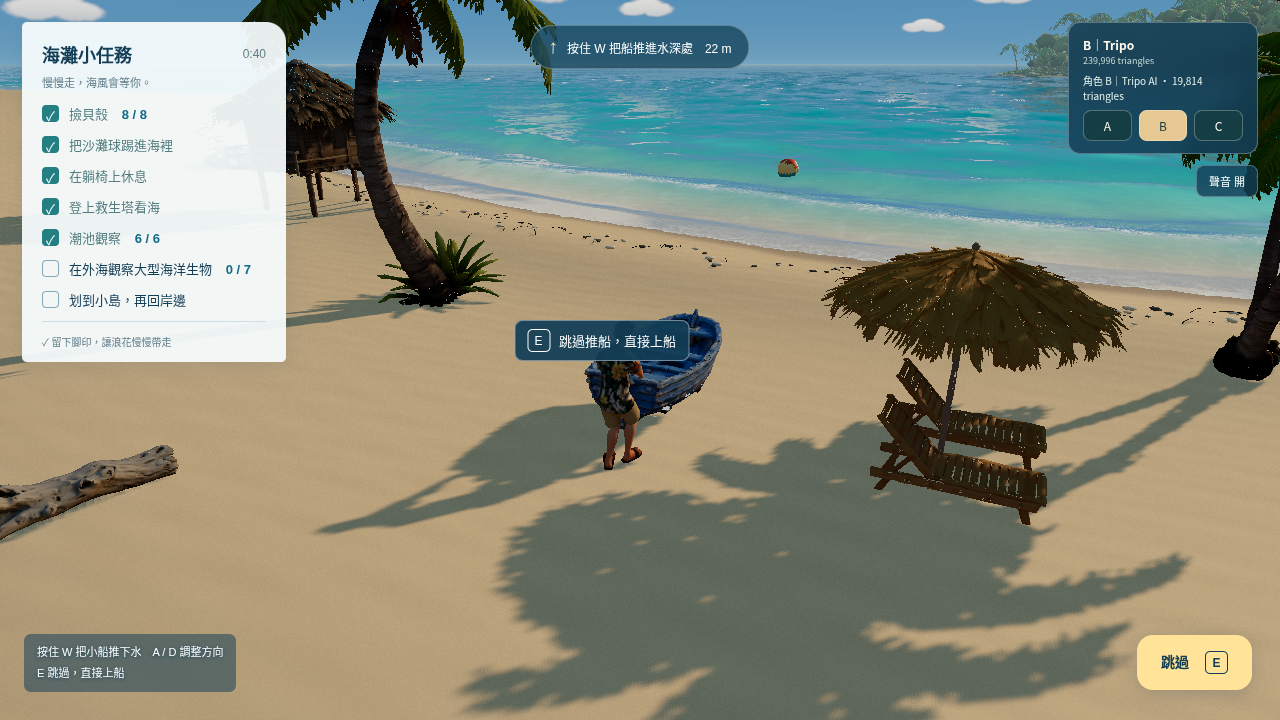
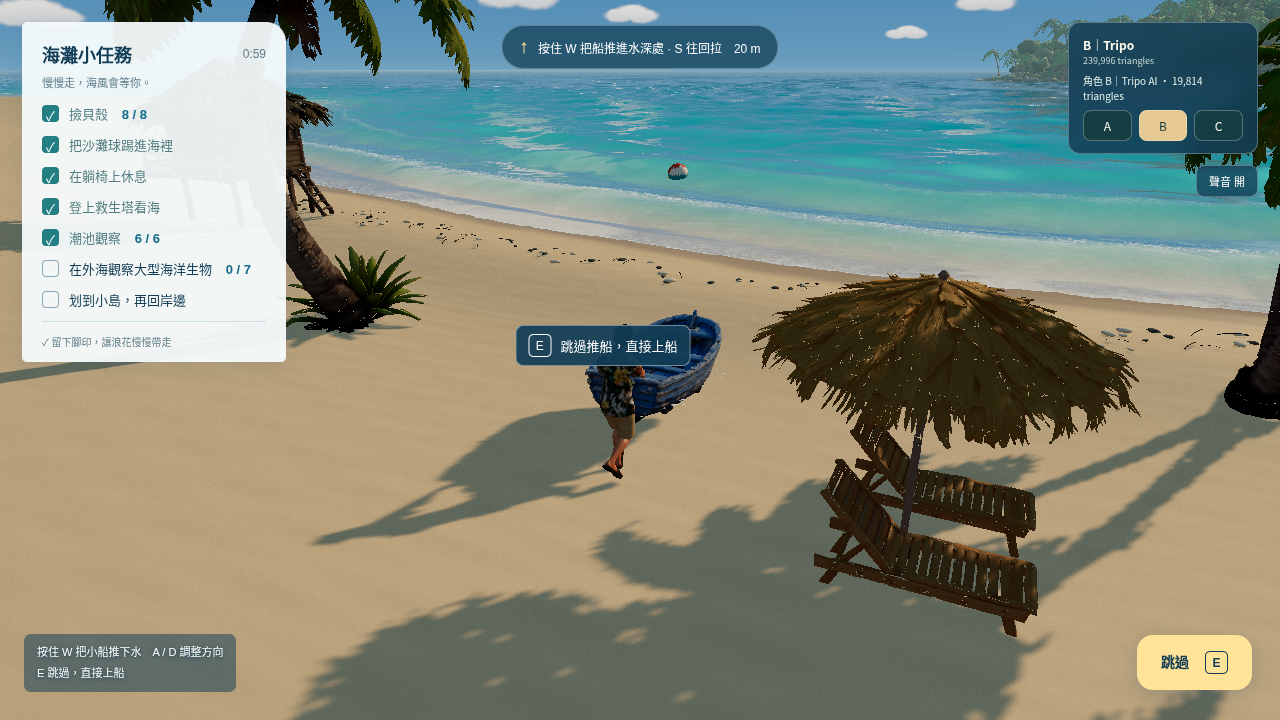
可沿沙灘走到岬角林緣近看（島坡、椰子樹幹、岩塊擋人，鏡頭碰撞含島坡）；推船按 S 倒退往回拉、A/D 轉向，撞到躺椅不再卡死；岩塊與植物不再長在島外框外或被沙蓋住的地方（修掉埋在沙下擋路、浮在外海的石頭）；verify-game 加往回拉與走到岬角檢查
Claude-Session: https://claude.ai/code/session_01USRpqyJ3nNu4mbR3gC6di4

diff --git a/src/game/index.js b/src/game/index.js
@@ -470,11 +470,13 @@ export async function createGame({scene,camera,renderer,water,config,explore:e,a
  // (A / D bend the course); it slides on the sand, then floats where the water is deeper than its draft. Once the
  // water under its middle is deep enough to row (the boat's own limit), the rower climbs in over the stern.
  function launchUpdate(dt,t){
-  e.input(input);const driving=running&&e.active&&!e.busy,f=driving?Math.max(0,input.forward):0,s=driving?input.side:0,hh=boat.hull??{x:0,z:0,len:3,beam:1.2};
+  e.input(input);const driving=running&&e.active&&!e.busy,f=driving?input.forward:0,s=driving?input.side:0,hh=boat.hull??{x:0,z:0,len:3,beam:1.2};
   const local=(lx,lz,out)=>{const c=Math.cos(boatYaw),sn=Math.sin(boatYaw);return out.set(vessel.position.x+c*(lx+hh.x)+sn*(lz+hh.z),0,vessel.position.z-sn*(lx+hh.x)+c*(lz+hh.z));};
   if(launch.board<0){
    const mid=local(0,0,blade),wading=groundHeight(mid.x,mid.z)<0;
-   launch.speed=T.MathUtils.damp(launch.speed,f*(wading?1.4:2.1),3,dt);launch.steer=T.MathUtils.clamp(launch.steer-s*dt*.5,-.5,.5);
+   // S pulls it back (slower, walking backwards), so a hull run into a lounger or the umbrella can be backed off;
+   // A / D then swing its bow while it comes back.
+   launch.speed=T.MathUtils.damp(launch.speed,f>0?f*(wading?1.4:2.1):f*.9,3,dt);if(f>=0)launch.steer=T.MathUtils.clamp(launch.steer-s*dt*.5,-.5,.5);
    const step=launch.speed*dt,aim=Math.atan2(-(launch.to.x-vessel.position.x),-(launch.to.z-vessel.position.z))+launch.steer,err=Math.atan2(Math.sin(aim-boatYaw),Math.cos(aim-boatYaw));
    // The hull's corners must stay clear of the other props.
    const clear=(x,z,yaw)=>{if(x<-48||x>145)return false;const c=Math.cos(yaw),sn=Math.sin(yaw);
@@ -483,7 +485,8 @@ export async function createGame({scene,camera,renderer,water,config,explore:e,a
    // Facing well away from the sea (a boat beached bow up the sand), it is first swung round on the spot, its middle
    // staying put; then pushed ahead, easing onto the course. A blocked course bends a little either way.
    const moves=[];
-   if(Math.abs(err)>.5){const yaw=boatYaw+Math.sign(err)*Math.min(Math.abs(err),step*.6),mid=local(0,0,blade),c=Math.cos(yaw),sn=Math.sin(yaw);moves.push([mid.x-(c*hh.x+sn*hh.z),mid.z-(-sn*hh.x+c*hh.z),yaw]);}
+   if(step<0){const yaw=boatYaw-s*step*.5;moves.push([vessel.position.x-Math.sin(boatYaw)*step,vessel.position.z-Math.cos(boatYaw)*step,yaw],[vessel.position.x-Math.sin(boatYaw)*step,vessel.position.z-Math.cos(boatYaw)*step,boatYaw]);}
+   else if(Math.abs(err)>.5){const yaw=boatYaw+Math.sign(err)*Math.min(Math.abs(err),step*.6),mid=local(0,0,blade),c=Math.cos(yaw),sn=Math.sin(yaw);moves.push([mid.x-(c*hh.x+sn*hh.z),mid.z-(-sn*hh.x+c*hh.z),yaw]);}
    else for(const bend of [0,.03,-.03,.06,-.06]){const yaw=boatYaw+err*Math.min(1,step*.45)+bend;moves.push([vessel.position.x-Math.sin(yaw)*step,vessel.position.z-Math.cos(yaw)*step,yaw]);}
    let moved=!step;
    for(const [x,z,yaw] of step?moves:[])if(clear(x,z,yaw)){vessel.position.x=x;vessel.position.z=z;boatYaw=yaw;moved=true;break;}
@@ -628,7 +631,7 @@ export async function createGame({scene,camera,renderer,water,config,explore:e,a
   destination.visible=mode==='boat';buoy.visible=mode==='boat';const dest=state.island&&state.opensea?dock:island;destination.position.set(dest.x,.6,dest.z);sampleWater(dest.x,dest.z,t,wave);destination.position.y=wave.height+.14;buoy.position.set(dest.x,wave.height+1.4,dest.z);
   near=active?nearTarget():null;const prompt=$('#target-prompt'),button=$('#interact');button.disabled=!near;button.firstChild.textContent=mode==='boat'?(near?.kind==='opensea'?'觀察 ':near?.kind==='skip'?'跳過 ':near?'下船 ':'划行中 '):mode==='tower'?'下塔 ':mode==='rest'?'起身 ':'互動 ';objects.halo.visible=!!near&&mode==='walk';prompt.hidden=!near;
   if(near){const p=near.position;screen.set(p.x,p.y??p.height??groundHeight(p.x,p.z),p.z);if(near.kind==='shell')screen.y=near.item.y;if(near.kind==='shell'&&screen.y<.04){sampleWater(screen.x,screen.z,t,wave);screen.y=Math.max(screen.y,wave.height);}objects.halo.position.set(screen.x,screen.y+.025,screen.z);screen.y+=1.2;screen.project(camera);const onScreen=screen.z<1&&screen.z>-1&&Math.abs(screen.x)<.95&&Math.abs(screen.y)<.95;prompt.hidden=!onScreen;prompt.style.left=`${(screen.x*.5+.5)*innerWidth}px`;prompt.style.top=`${(-screen.y*.5+.5)*innerHeight}px`;prompt.querySelector('span').textContent=near.label;}
-  let goal=null,label='';if(mode==='boat'&&launch.active){goal=launch.to;label='按住 W 把船推進水深處';}else if(mode==='boat'){goal=dest;label=state.island&&state.opensea?'岸邊圓環 · E 下船':'外海浮標 · 浮出水面時按 E 觀察';}else if(state.shells<8){let d=Infinity;for(const item of objects.items){const n=Math.hypot(item.x-e.player.x,item.z-e.player.z);if(!item.collected&&n<d){d=n;goal=item;}}label='下一枚貝殼';}else if(!state.ball){goal=objects.ball.position;label='沙灘球';}else if(!state.lounger){goal=anchors.umbrella.point;label='躺椅';}else if(!state.tower){goal=anchors.lifeguard.point;label='救生塔';}else if(!state.tidepool){goal=pool.point;label='潮池';}else if((!state.opensea||!state.boat)){goal=anchors.boat.point;label='岸上的小船';}
+  let goal=null,label='';if(mode==='boat'&&launch.active){goal=launch.to;label='按住 W 把船推進水深處 · S 往回拉';}else if(mode==='boat'){goal=dest;label=state.island&&state.opensea?'岸邊圓環 · E 下船':'外海浮標 · 浮出水面時按 E 觀察';}else if(state.shells<8){let d=Infinity;for(const item of objects.items){const n=Math.hypot(item.x-e.player.x,item.z-e.player.z);if(!item.collected&&n<d){d=n;goal=item;}}label='下一枚貝殼';}else if(!state.ball){goal=objects.ball.position;label='沙灘球';}else if(!state.lounger){goal=anchors.umbrella.point;label='躺椅';}else if(!state.tower){goal=anchors.lifeguard.point;label='救生塔';}else if(!state.tidepool){goal=pool.point;label='潮池';}else if((!state.opensea||!state.boat)){goal=anchors.boat.point;label='岸上的小船';}
   if(goal){const dx=goal.x-e.player.x,dz=goal.z-e.player.z;$('#nav-text').textContent=`${label}　${Math.round(Math.hypot(dx,dz))} m`;e.input(input);$('#nav-arrow').style.transform=`rotate(${Math.atan2(dx,-dz)+(mode==='boat'?boatYaw:input.yaw)}rad)`;}$('#navigation').hidden=!goal||!active||mode==='rest'||mode==='tower'||mode==='tidepool';
   $('#game-audio').textContent=e.muted?'聲音 關':'聲音 開';$('#game-audio').setAttribute('aria-pressed',String(e.muted));$('#game-toast').classList.toggle('visible',active&&t<toastUntil);$('#game-fade').style.opacity=String(Math.max(0,1-(t-fadeAt)/.65)*.65);renderHud();
   if(active&&mode==='walk'&&state.shells===8&&state.ball&&state.lounger&&state.tower&&state.tidepool&&state.opensea&&state.boat)complete();

diff --git a/src/vegetation.js b/src/vegetation.js
@@ -1,5 +1,6 @@
 import * as THREE from 'three';
 import { mergeGeometries, mergeVertices } from 'three/addons/utils/BufferGeometryUtils.js';
+import { groundHeight } from './terrain.js';
 
 // Tropical island vegetation for the shared landforms (src/coast.js): broadleaf trees, coconut palms and shrubs.
 // Every shape and placement comes from fixed seeds, so the scene is the same on every load and in every group.
@@ -128,14 +129,16 @@ function foliageMaterial(){
 
 // Plant islands into shared instanced meshes: plant() once per island, then finish().
 export function createVegetation(group){
- const lists={crownNear:[],crownFar:[],shrub:[],palm:[],trunk:[],boulder:[],plant:[]};
+ const lists={crownNear:[],crownFar:[],shrub:[],palm:[],trunk:[],boulder:[],plant:[]},obstacles=[];
  // shape(x,z): the island's height at local (x, z); rock(x,z,y): bare rock there; detail 'near' or 'far'.
  function plant({cx,cz,rx,rz,shape,rock,seed,detail,counts}){
   const r=rng(seed),o=new THREE.Object3D(),color=new THREE.Color();
   const slope=(x,z)=>Math.hypot(shape(x+1,z)-shape(x-1,z),shape(x,z+1)-shape(x,z-1))/2;
   // The yaw that turns local +x downhill (rotateY(a) sends +x to (cos a, 0, -sin a)).
   const downhill=(x,z)=>Math.atan2(shape(x,z+1)-shape(x,z-1),-(shape(x+1,z)-shape(x-1,z)));
-  const pick=test=>{for(let i=0;i<60;i++){const x=(r()-.5)*rx*1.9,z=(r()-.5)*rz*1.9,y=shape(x,z);if(test(x,z,y))return [x,z,y];}return null;};
+  // Where the island meets the main beach its edge runs under the sand: nothing grows there (it would be buried, and
+  // a buried boulder or trunk would still block walkers).
+  const pick=test=>{for(let i=0;i<60;i++){const x=(r()-.5)*rx*1.9,z=(r()-.5)*rz*1.9,y=shape(x,z);if(test(x,z,y)&&y>groundHeight(cx+x,cz+z)-.2)return [x,z,y];}return null;};
   const put=(list,place)=>{place(o,color);o.updateMatrix();list.push([o.matrix.clone(),color.clone()]);};
   // Broadleaf trees: many small crowns packed into a canopy from just above the rock band to the summit (from afar a
   // fine texture, not separate blobs); a few emergent trees break the skyline. Sunlit yellow-green to olive.
@@ -149,12 +152,13 @@ export function createVegetation(group){
   // Coconut palms: many along the shore, leaning downhill towards the water, and scattered up the slopes standing
   // out of the canopy.
   for(let i=0;i<counts.palm;i++){const p=pick((x,z,y)=>{const e=(x/rx)**2+(z/rz)**2;return i%3===0?y>4&&slope(x,z)<1.3:y>.6&&y<8&&e>.5&&slope(x,z)<1.4;});if(!p)continue;const [x,z,y]=p,shore=i%3!==0;
-   put(lists.palm,(o,c)=>{const h=shore?7+r()*5:12+r()*6;o.position.set(cx+x,y-.3,cz+z);o.scale.setScalar(h);
+   obstacles.push([cx+x,cz+z,.3]);put(lists.palm,(o,c)=>{const h=shore?7+r()*5:12+r()*6;o.position.set(cx+x,y-.3,cz+z);o.scale.setScalar(h);
     // The trunk bends towards local +x: turn that downhill, then lean a little more that way (more on the shore).
     o.rotation.set(0,0,0);o.rotateY(downhill(x,z)+(r()-.5)*.6);o.rotateZ(-(shore?.08+r()*.22:r()*.08));const k=.95+r()*.3;c.setRGB(k,k,k*.92);});}
-  // Boulders scattered along the water line, some half in the water: weed round the foot, some green all over.
-  for(let i=0;i<(counts.boulder||0);i++){const p=pick((x,z,y)=>y>-.6&&y<1.6);if(!p)continue;const [x,z,y]=p;
-   put(lists.boulder,(o,c)=>{const s=.5+r()**2*2.2;o.position.set(cx+x,y-s*.15,cz+z);o.scale.set(s*(1+r()*.5),s*(.6+r()*.5),s*(1+r()*.4));o.rotation.set((r()-.5)*.3,r()*6.3,(r()-.5)*.3);const k=.8+r()*.4;if(r()<.25)c.setRGB(k*.85,k*1.02,k*.75);else c.setRGB(k,k,k);});}
+  // Boulders scattered along the water line (inside the island's outline: outside it the height is flat, buried
+  // under the beach or out at sea), some half in the water: weed round the foot, some green all over.
+  for(let i=0;i<(counts.boulder||0);i++){const p=pick((x,z,y)=>y>-.6&&y<1.6&&(x/rx)**2+(z/rz)**2<.99);if(!p)continue;const [x,z,y]=p;
+   put(lists.boulder,(o,c)=>{const s=.5+r()**2*2.2,sx=s*(1+r()*.5),sy=s*(.6+r()*.5),sz=s*(1+r()*.4);obstacles.push([cx+x,cz+z,Math.max(sx,sz)*.9]);o.position.set(cx+x,y-s*.15,cz+z);o.scale.set(sx,sy,sz);o.rotation.set((r()-.5)*.3,r()*6.3,(r()-.5)*.3);const k=.8+r()*.4;if(r()<.25)c.setRGB(k*.85,k*1.02,k*.75);else c.setRGB(k,k,k);});}
   // Leafy ground plants: a thick fringe along the forest edge spilling onto the sand, and some in the gaps under
   // the canopy and between the rocks.
   for(let i=0;i<(counts.plant||0);i++){const p=pick((x,z,y)=>i%4===0?y>2&&y<12&&slope(x,z)<1.5:y>.15&&y<3.2&&slope(x,z)<1.6);if(!p)continue;const [x,z,y]=p;
@@ -169,5 +173,6 @@ export function createVegetation(group){
    for(const m of meshes){m.instanceMatrix.needsUpdate=true;if(m.instanceColor)m.instanceColor.needsUpdate=true;m.computeBoundingSphere();}}
   return Object.fromEntries(Object.entries(lists).map(([k,v])=>[k,v.length]));
  }
- return {plant,finish};
+ // Palm trunks and boulders as circles [x, z, radius], for walkers along the shore (src/coast.js landHeight()).
+ return {plant,finish,obstacles};
 }

diff --git a/src/explore.js b/src/explore.js
@@ -1,5 +1,6 @@
 import * as T from 'three';
 import { groundHeight } from './terrain.js';
+import { landHeight, shoreClear } from './coast.js';
 import { loadProps, propRoot } from './props.js';
 import './explore.css';
 
@@ -91,7 +92,7 @@ export function createExplore({ scene, camera, renderer, config, results, group,
   drag($('#stick'),(x,y)=>{joyX=T.MathUtils.clamp(x/45,-1,1);joyY=T.MathUtils.clamp(y/45,-1,1);$('#stick i').style.transform=`translate(${joyX*30}px,${joyY*30}px)`;},()=>{joyX=joyY=0;$('#stick i').style.transform='';});
   let lastX=0,lastY=0;drag($('#look'),(x,y)=>{look(x-lastX,y-lastY);lastX=x;lastY=y;},()=>{lastX=lastY=0;});
   // Free space, or a move that gets out of a prop the player is already inside (e.g. after a teleport).
-  function allowed(x,z){if(x< -34||x>35||z>27||groundHeight(x,z)<-.65)return false;const next=clearance(x,z);return next>=RADIUS||next>clearance(player.x,player.z);}
+  function allowed(x,z){if(x< -34||x>100||z>27||groundHeight(x,z)<-.65||x>35&&!shoreClear(x,z,RADIUS))return false;const next=clearance(x,z);return next>=RADIUS||next>clearance(player.x,player.z);}
   function cameraBlocked(p){for(const c of colliders){const b=c.box;if(p.x>b.min.x-.2&&p.x<b.max.x+.2&&p.y>b.min.y-.2&&p.y<b.max.y+.2&&p.z>b.min.z-.2&&p.z<b.max.z+.2)return true;}return false;}
   function update(dt){dt=Math.min(dt,.05);let dx=0,dz=0;
     if(active&&!photo&&!busy&&!driven){const forward=hold?0:Number(keys.has('KeyW')||keys.has('ArrowUp'))-Number(keys.has('KeyS')||keys.has('ArrowDown'))-joyY,side=hold?0:Number(keys.has('KeyD'))-Number(keys.has('KeyA'))+joyX;yaw+=(Number(keys.has('ArrowLeft'))-Number(keys.has('ArrowRight')))*2.2*dt;const amount=Math.hypot(forward,side),norm=Math.max(1,amount),wet=groundHeight(player.x,player.z)<.02,target=amount>.01?(keys.has('ShiftLeft')||keys.has('ShiftRight')?4.5:1.8)*(wet?.42:1)*Math.min(1,amount):0;
@@ -114,9 +115,9 @@ export function createExplore({ scene, camera, renderer, config, results, group,
     movementSpeed=dt>0?Math.hypot(dx,dz)/dt:movementSpeed;
     if(!driven)avatar.position.copy(player);avatar.position.y+=Math.hypot(dx,dz)>.001?Math.abs(Math.sin(phase))*.045:0;avatar.visible=gameMode||!first;
     if(!photo&&!driven){target.copy(player);target.y+=1.45;desiredCamera.copy(target);if(first){desiredCamera.x-=Math.sin(yaw)*.05;desiredCamera.z-=Math.cos(yaw)*.05;camera.position.copy(desiredCamera);target.x-=Math.sin(yaw)*10;target.z-=Math.cos(yaw)*10;target.y-=Math.sin(pitch)*10;}else{desiredCamera.x+=Math.sin(yaw)*6.2*Math.cos(pitch);desiredCamera.z+=Math.cos(yaw)*6.2*Math.cos(pitch);desiredCamera.y+=.45+Math.sin(pitch)*6.2;
-      for(let i=1;!gameCamera&&i<=24;i++){probe.lerpVectors(target,desiredCamera,i/24);if(probe.y<groundHeight(probe.x,probe.z)+.35||cameraBlocked(probe)){desiredCamera.lerpVectors(target,desiredCamera,(i-1)/24);break;}}
+      for(let i=1;!gameCamera&&i<=24;i++){probe.lerpVectors(target,desiredCamera,i/24);if(probe.y<landHeight(probe.x,probe.z)+.35||cameraBlocked(probe)){desiredCamera.lerpVectors(target,desiredCamera,(i-1)/24);break;}}
       if(!gameCamera)camera.position.lerp(desiredCamera,1-Math.exp(-10*dt));}
-      camera.position.y=Math.max(camera.position.y,groundHeight(camera.position.x,camera.position.z)+.3);camera.lookAt(target);if(gameCamera&&!first)gameCamera.update(dt,player,yaw,pitch);
+      camera.position.y=Math.max(camera.position.y,landHeight(camera.position.x,camera.position.z)+.3);camera.lookAt(target);if(gameCamera&&!first)gameCamera.update(dt,player,yaw,pitch);
       let nearest=null,best=4;for(const c of colliders){const d=Math.hypot(Math.max(c.box.min.x-player.x,0,player.x-c.box.max.x),Math.max(c.box.min.z-player.z,0,player.z-c.box.max.z));if(d<best){best=d;nearest=c;}}
       if(nearest!==lastPoi||group!==lastPoiGroup){lastPoi=nearest;lastPoiGroup=group;poi.textContent=nearest?`${nearest.id} · ${labels[group]}${group==='A'?' · code-generated':` · ${nearest.slot.paths[group].split('/').at(-1)}`}`:'';poi.hidden=!nearest;}
       for(const r of rings){if(r.age<1){r.age+=dt;r.mesh.scale.setScalar(1+r.age*3);r.mesh.material.opacity=(1-r.age)*.45;}else r.mesh.visible=false;}

diff --git a/src/game/character.js b/src/game/character.js
@@ -251,6 +251,8 @@ export async function createCharacter(group='A'){
   // While moving, locomotion wins: a pickup only layers its arm reach on top, a kick is skipped.
   // Speed eases between walk and run (the body itself speeds up and slows down over a few strides, src/explore.js);
   // from 2.9 to 4.3 m/s both cycles play, weighted, on one shared stride phase.
+  // A negative speed walks backwards (pulling the boat back): the same gait, its phase running the other way.
+  const back=speed<0?-1:1;speed=Math.abs(speed);
   pace=dt?T.MathUtils.damp(pace,speed,10,dt):speed;const blendRun=T.MathUtils.smoothstep(pace,2.9,4.3);
   const gait=speed>.12?(blendRun>.5?'run':'walk'):'idle',layered=gait!=='idle'&&oneShot==='interact'&&!animation;
   const selected=animation??(pose==='climb'?'climb':pose==='paddle'?'paddle':pose==='lie'?'lie':pose==='sit'||pose==='sand'?'sit':airborne?'jump':gait!=='idle'?gait:oneShot||gait);
@@ -265,10 +267,10 @@ export async function createCharacter(group='A'){
    const frac=x=>(x%1+1)%1,lead=n=>frac((contact[n]?.[0]?.[0]??0)*cycles[n]),stride=n=>nativeSpeed[n]*actions.get(n).getClip().duration/cycles[n];
    const cycle=T.MathUtils.lerp(stride('walk'),stride('run'),blendRun);
    if(!locoSync){const n=active==='run'?'run':'walk',a=actions.get(n);locoPhase=frac(a.time/a.getClip().duration*cycles[n]-lead(n));}
-   locoSync=true;locoPhase=frac(locoPhase+dt*Math.min(speed,cycle*3)/cycle);
+   locoSync=true;locoPhase=frac(locoPhase+back*dt*Math.min(speed,cycle*3)/cycle);
    for(const [a,w,n] of [[walkA,1-blendRun,'walk'],[runA,blendRun,'run']]){a.enabled=true;if(!a.isRunning())a.play();a.setEffectiveTimeScale(0).setEffectiveWeight(w);a.time=frac(locoPhase+lead(n))/cycles[n]*a.getClip().duration;}
   }
-  else if(nativeSpeed[selected]&&!animation)actions.get(selected).setEffectiveTimeScale(T.MathUtils.clamp(speed/nativeSpeed[selected],.5,5));
+  else if(nativeSpeed[selected]&&!animation)actions.get(selected).setEffectiveTimeScale(back*T.MathUtils.clamp(speed/nativeSpeed[selected],.5,5));
   restore();mixer.update(dt);
   // Foot plants: report each foot whose contact phase the clip passed this frame.
   steps.length=0;const clipAction=actions.get(selected);
@@ -281,7 +283,7 @@ export async function createCharacter(group='A'){
    // Procedural gait (no clip): fixed cadence; the stance leg stays straight and its amplitude is matched to speed so
    // the foot sweeps back at ground speed as it passes under the hip (leg·amplitude·ω = speed). That moment is the plant.
    const rate=loco(selected)?T.MathUtils.lerp(7,10,blendRun):0,gait=rate?T.MathUtils.clamp(speed/(legLength*rate),.15,1.1):0;
-   if(rate&&dt){const before=stride;stride+=rate*dt;if(Math.floor(stride/Math.PI)!==Math.floor(before/Math.PI))steps.push(Math.floor(stride/Math.PI)%2?1:0);}
+   if(rate&&dt){const before=stride;stride+=back*rate*dt;if(Math.floor(stride/Math.PI)!==Math.floor(before/Math.PI))steps.push(Math.floor(stride/Math.PI)%2?1:0);}
    const cycle=rate?stride:age*8,swing=Math.sin(cycle)*gait;
    for(let i=0;i<2;i++){const sign=i?1:-1,s=i?swing:-swing,stance=rate&&(i?Math.cos(cycle):-Math.cos(cycle))<0;let thigh=[0,-Math.cos(s),Math.sin(s)],calf=stance?thigh:[0,-1,Math.max(0,-s)*.7],arm=[sign*.15,-1,-s*.7],fore=[0,-1,.12];
     if(seated){thigh=[0,-.12,1];calf=pose==='sand'?[0,-.05,1]:[0,-1,.08];arm=[sign*.3,-1,.45];fore=[0,-.15,1];if(selected==='paddle'){arm=[sign*.4,-.4,.8+Math.sin(age*6+i)*.5];fore=[sign*.25,-.2,.9];}}

diff --git a/src/coast.js b/src/coast.js
@@ -2,7 +2,21 @@ import * as THREE from 'three';
 import { shore, groundHeight } from './terrain.js';
 import { createVegetation, haze } from './vegetation.js';
 // Shared landscape details, deliberately outside the experimental prop root.
+// The islands' heights (local shape per island) and their palm trunks and boulders, filled by addCoastDetails(), so
+// walkers can reach the headland's forest edge along the sand without walking into the hill.
+const islands=[],obstacles=[];
+export const islandHeight=(x,z)=>{let y=-Infinity;for(const i of islands){const lx=x-i.cx,lz=z-i.cz;if((lx/i.rx)**2+(lz/i.rz)**2<1)y=Math.max(y,i.shape(lx,lz));}return y;};
+// The ground a walker or camera stands on: the beach or, where it rises out of the sand, an island.
+export const landHeight=(x,z)=>Math.max(groundHeight(x,z),islandHeight(x,z));
+// Can a walker stand here? Not where the island rises more than 15 cm out of the sand (the forest edge) or on a palm
+// trunk or boulder (radius: the walker's).
+export function shoreClear(x,z,radius){
+ if(islandHeight(x,z)>groundHeight(x,z)+.15)return false;
+ for(const [ox,oz,r] of obstacles)if((x-ox)**2+(z-oz)**2<(r+radius)**2)return false;
+ return true;
+}
 export function addCoastDetails(scene) {
+ islands.length=obstacles.length=0;
  let seed=7921;
  const rand=()=>{seed=(1664525*seed+1013904223)>>>0;return seed/4294967296;};
  const land=new THREE.Group();land.name='shared-coastal-landforms';scene.add(land);
@@ -28,11 +42,13 @@ export function addCoastDetails(scene) {
   for(let i=0;i<3200;i++){const x=(rand()-.5)*rx*1.65,z=(rand()-.5)*rz*1.65;if(old(x,z)<3){i--;continue;}for(let k=0;k<5;k++)rand();}
   return {shape,rock};
  }
- const islands=[[90,-340,105,40,29,'far',{canopy:3400,shrub:700,palm:170,boulder:320,plant:900},211],[114,-58,64,78,29,'near',{canopy:3100,shrub:900,palm:220,boulder:380,plant:1300},307]];
+ const list=[[90,-340,105,40,29,'far',{canopy:3400,shrub:700,palm:170,boulder:320,plant:900},211],[114,-58,64,78,29,'near',{canopy:3100,shrub:900,palm:220,boulder:380,plant:1300},307]];
  const plants=new THREE.Group();plants.name='island-vegetation';land.add(plants);
  const vegetation=createVegetation(plants);
- for(const [cx,cz,rx,rz,h,detail,counts,seed] of islands){const {shape,rock}=hill(cx,cz,rx,rz,h);vegetation.plant({cx,cz,rx,rz,shape,rock,seed,detail,counts});}
+ for(const [cx,cz,rx,rz,h,detail,counts,seed] of list){const {shape,rock}=hill(cx,cz,rx,rz,h);islands.push({cx,cz,rx,rz,shape});vegetation.plant({cx,cz,rx,rz,shape,rock,seed,detail,counts});}
  vegetation.finish();
+ // Only the trunks and boulders a walker on the sand can reach.
+ obstacles.push(...vegetation.obstacles.filter(([x,z,r])=>z>-60&&islandHeight(x,z)<groundHeight(x,z)+.15+r));
  const debris=new THREE.Group();debris.name='shared-tide-debris';scene.add(debris);
  const geometries=[new THREE.SphereGeometry(1,7,4),new THREE.IcosahedronGeometry(1,0),new THREE.TorusGeometry(1,.12,4,7,3.5)];
  const materials=[new THREE.MeshStandardMaterial({color:0xeee1c8}),new THREE.MeshStandardMaterial({color:0x6e7167}),new THREE.MeshStandardMaterial({color:0x494333})];

diff --git a/src/game/camera.js b/src/game/camera.js
@@ -1,6 +1,6 @@
 import * as T from 'three';
 import {MeshBVH,acceleratedRaycast} from 'three-mesh-bvh';
-import {groundHeight} from '../terrain.js';
+import {landHeight} from '../coast.js';
 export const MIN_BOOM=1.6;
 // A five-ray swept near-plane, against only source prop meshes. Broad-phase
 // boxes reject distant props but never decide a collision on their own.
@@ -14,7 +14,7 @@ export function createGameCamera(camera,propRoot){
   for(const [x,y] of [[0,0],[.18,0],[-.18,0],[0,.18],[0,-.18]]){origin.copy(start).addScaledVector(right,x).addScaledVector(up,y);ray.set(origin,dir);ray.far=distance+.2;
    for(const e of entries){if(!e.source.visible||!ray.ray.intersectBox(e.box,hitPoint)||origin.distanceTo(hitPoint)>distance+.2)continue;const hits=ray.intersectObject(e.root,true);if(hits.length)distance=Math.min(distance,Math.max(0,hits[0].distance-.22));}
   }
-  for(let d=.3;d<distance;d+=.3){hitPoint.copy(start).addScaledVector(dir,d);if(hitPoint.y<groundHeight(hitPoint.x,hitPoint.z)+.35){distance=d;break;}}
+  for(let d=.3;d<distance;d+=.3){hitPoint.copy(start).addScaledVector(dir,d);if(hitPoint.y<landHeight(hitPoint.x,hitPoint.z)+.35){distance=d;break;}}
   return distance;
  }
  function update(dt,player,yaw,pitch){head.copy(player).add(new T.Vector3(0,1.6,0));direction.set(Math.sin(yaw)*Math.cos(pitch),.073+Math.sin(pitch),Math.cos(yaw)*Math.cos(pitch)).normalize();let desired=clearance(head,direction,6.2);
@@ -31,6 +31,6 @@ export function createGameCamera(camera,propRoot){
   if(safe<length-.01){if(safe>=MIN_BOOM)camera.position.copy(head).addScaledVector(delta,safe);else camera.position.copy(goal);}
   enforce(head);camera.lookAt(head);return lastDistance;
  }
- function enforce(point){delta.subVectors(camera.position,point);if(delta.length()<MIN_BOOM){if(delta.length()<.01)delta.set(0,1,.15);delta.setLength(MIN_BOOM);camera.position.copy(point).add(delta);}camera.position.y=Math.max(camera.position.y,groundHeight(camera.position.x,camera.position.z)+.3);lastDistance=camera.position.distanceTo(point);minObserved=Math.min(minObserved,lastDistance);return lastDistance;}
+ function enforce(point){delta.subVectors(camera.position,point);if(delta.length()<MIN_BOOM){if(delta.length()<.01)delta.set(0,1,.15);delta.setLength(MIN_BOOM);camera.position.copy(point).add(delta);}camera.position.y=Math.max(camera.position.y,landHeight(camera.position.x,camera.position.z)+.3);lastDistance=camera.position.distanceTo(point);minObserved=Math.min(minObserved,lastDistance);return lastDistance;}
  refresh();return {refresh,update,enforce,get distance(){return lastDistance;},get minObserved(){return minObserved;},resetAudit(){minObserved=Infinity;},get boom(){return boom;}};
 }

diff --git a/CLAUDE.md b/CLAUDE.md
@@ -102,7 +102,7 @@ There is no lint or unit-test setup. Verification means running the Playwright s
   - Walk/run playback is time-scaled to measured clip stride so feet don't slide.
   - IK layer (`solve()` in `character.js`, all three rigs): analytic two-bone IK for hands/feet with world targets and per-limb weights, pelvis drop for crouches, terrain-following feet (`ground`), spine lean/twist, head look-at, wrist aim (`handAim`) and finger curl (`curl`). The game passes targets per mode from `poseIK()` in `src/game/index.js`; `info().ik` reports reach errors.
   - Grip (`curl`): rigs with finger bones (B) bend each finger joint about an axis built in bind space (T pose, palms down). A rig without fingers instead gets a knuckle bone and a thumb bone per hand at load, re-skinned in bind space from vertices wholly on the hand. Wrist aim puts the roll on the forearm; a wrist that rolls far tears the skin. The Tripo climb clip is a chest-to-wall climb: at load its hips are pinned at the standing position and its hips-to-head rotations at the bind pose (values overwritten in place, since the actions already exist), so the game's body placement and `spine.lean` set the torso. On a leaning ladder `climbPose` keeps the hips about 42 cm off the ladder plane (nearly over the feet, as on steep stairs) and 25 cm below the rung line, so both knees bend. Above the top rung the hands take the handrails: `ladder.handrails` (own ladders) lists, per side, the nearest upright beside the centre line (the ladder's rails, then the posts of the railing opening), found by sideways probes; the mantle grips those posts at about waist height on the deck.
-  - Launch: E at the beached boat swaps in the clone exactly where and how the prop lies (`boat.restYaw`); holding W pushes it from the stern (hands on the stern top found by scanning the centre line, lean eased where it rides high), first swinging it round on the spot if it faces up the beach, then down to the water past the umbrella and driftwood (hull corners against the prop boxes). It rests on the sand (keel on the ground) or floats, whichever is higher. Where its middle is deep enough to row (ground < -0.75 m) the rower climbs in over the stern (`boardPose()`, 3.2 s, a function of the time since it began; keys in vessel space): steps up to the stern and takes its top in both hands, pushes up with the chest folded over it (hips at the top), brings one knee then the other over (each foot on a Bézier through a point 26 cm above the top) onto what is inside (`boat.deck`: floor or thwart along the centre line, probed at hull setup), crouches with the hands on the gunwales (`boat.deck[].gun`: the side found by a ray from outside, hits over 0.9 m off the centre line skipped for C's oars), steps forward over the thwart and lowers onto it facing the bow while the hands go to the paddle. The weight presses the stern down 5° and settles the hull 2 cm. At 2.9 s the hips are on the seat and the seated pose takes over with `character.update({snapPose:true})` (body offset not blended, so no jump); `character.hipHeight` is exposed for this. With `?auto=1`, `__GAME__.boardInfo()` returns the stern, deck profile and current targets. E during the push skips to the old start at the dock. With `?auto=1` it is off unless `__GAME__.pushBoat=true` (probes and recorders board directly); `__GAME__.launch` reports it. `verify-game` covers it (shot `push.png`).
+  - Launch: E at the beached boat swaps in the clone exactly where and how the prop lies (`boat.restYaw`); holding W pushes it from the stern (hands on the stern top found by scanning the centre line, lean eased where it rides high), first swinging it round on the spot if it faces up the beach, then down to the water past the umbrella and driftwood (hull corners against the prop boxes). It rests on the sand (keel on the ground) or floats, whichever is higher. Where its middle is deep enough to row (ground < -0.75 m) the rower climbs in over the stern (`boardPose()`, 3.2 s, a function of the time since it began; keys in vessel space): steps up to the stern and takes its top in both hands, pushes up with the chest folded over it (hips at the top), brings one knee then the other over (each foot on a Bézier through a point 26 cm above the top) onto what is inside (`boat.deck`: floor or thwart along the centre line, probed at hull setup), crouches with the hands on the gunwales (`boat.deck[].gun`: the side found by a ray from outside, hits over 0.9 m off the centre line skipped for C's oars), steps forward over the thwart and lowers onto it facing the bow while the hands go to the paddle. The weight presses the stern down 5° and settles the hull 2 cm. At 2.9 s the hips are on the seat and the seated pose takes over with `character.update({snapPose:true})` (body offset not blended, so no jump); `character.hipHeight` is exposed for this. With `?auto=1`, `__GAME__.boardInfo()` returns the stern, deck profile and current targets. Holding S pulls it back (0.9 m/s, walking backwards: a negative `speed` to `character.update()` runs the gait phase the other way), A / D swinging it, so a hull run into a lounger can be backed off; `verify-game` checks it. E during the push skips to the old start at the dock. With `?auto=1` it is off unless `__GAME__.pushBoat=true` (probes and recorders board directly); `__GAME__.launch` reports it. `verify-game` covers it (shot `push.png`).
   - Splashes (`src/game/splash.js`): a blade crossing the water line (in or out) and, under way, both sides of the bow emit a splash event; drops and a speckled foam ring are a pure function of the time since the event. Paddle length and roll come from the hull: at the bottom of the stroke the blade is 16 cm under the water and 45 cm clear of the side (a blade dipped beside the hull read as spray from the boat). While a blade is in the water it leaves small swirls every 0.08 s. Drops are camera-facing quads stretched along their velocity (a streak, not a bead), leaving from across the blade's width; bigger splashes add a dim mist puff; a blade just out of the water drips for 0.8 s (drip events: three falling drops and a small ring where they land). Quad winding: the side vector must be `(dir.y,-dir.x)` or the quads are back-face culled. Splash heights use `surfaceHeight()`.
   - Wake and hull foam (`src/game/wake.js`): the stern is sampled every 0.15 s while under way; the wake is a foam ribbon over those samples that widens at about the Kelvin angle (capped at 1.2 m/s), breaks up and fades over 5.5 s, and is hidden over sand. A foam line hugs the hull at the water line (outline probed inward at local y 0 when the hull is set up), wider at the bow under way. Foam texture is fixed to the water (v along distance travelled, the ring in world space). Everything is a function of the samples and the time, so recordings stay deterministic. `surfaceHeight()` caches the displaced grid corners per time, so the hundreds of calls per frame stay under about 0.5 ms.
   - Boat: one stroke phase drives a double-bladed paddle, both hands (overhand grip), torso twist and thrust pulses. The hull is turned so its long axis runs along travel; the rower sits on a thwart near midships, feet braced on the floor.
@@ -134,6 +134,7 @@ There is no lint or unit-test setup. Verification means running the Playwright s
   - `haze()` (exported from `vegetation.js`): island materials fade towards the fog colour past ~80 m, much more than the scene's thin fog, so the far island reads as far.
   - The terrain grid and the old blob trees used to draw from the coast's shared seed; `hill()` still draws the same numbers over the old shape, so the tide debris on the beach is unchanged (checksum of its instance matrices).
   - The sky adds about 20 small cumulus low around the horizon to the four big clouds.
+  - Walking to the headland: the walk area runs along the beach to x 100, so the near island's forest edge can be reached. `coast.js` exports `islandHeight()`, `landHeight()` (beach or island, whichever is higher; used by the explore and game cameras) and `shoreClear(x,z,radius)` (false where the island rises over 15 cm out of the sand, or on a palm trunk or boulder that a walker on the sand can reach). Nothing grows where the island's edge runs under the beach sand, or outside its outline (boulders there used to be buried under the sand yet block walkers, or float out at sea). `verify-game` walks to it (shot `headland.png`).
 - **Shadows.** The sun is low (about 22°). The shadow camera's depth range is set to the scene (near 5, far 200) with bias -.00005 and normalBias .03, map 4096: the old default range made bias -.0004 about 20 cm, so shadows started ~0.5 m from prop bases and props looked afloat.
 - **Game boat in the water.** The clone floats with a draft (keel a quarter of the hull height, 12–25 cm, under the water line; height and tilt fit the water at bow, stern and both sides, since near the shore a hull levelled at its centre had water 15 cm over its inside). The heights come from `surfaceHeight()` in `src/water.js`, the water as drawn: offshore the water mesh rows are 10–16 m apart, so the flat triangles stray 20–30 cm from the exact field (`sampleWater`), and every ten seconds or so a crest covered the whole inside of a hull that followed the exact field. A depth-only cap over the hull's inside (20 cm above the water line, `renderOrder` 1, water 2) keeps the opaque water plane from showing inside the hull; the water stays at least 8 cm under it along the whole route. The hull's long axis comes from the vertex spread (C's oars skewed the box) and the narrower end is the bow (B and C ran transom first before); the rower takes a thwart clear of the floor in the aft half, so the legs have room before the bow narrows. Its materials are double-sided (C's single-skin hull showed the sea from inside).
 - **Bloom guard.** `src/main.js` runs a pass before bloom that turns NaN/Inf pixels to black and caps values at 1e4; otherwise one bad pixel (seen near A's palm_pair in game mode) spreads over the whole frame and the verifier sees an "empty" frame. Normal pixels are unchanged (A stills match to 1 level).

diff --git a/NOTES.md b/NOTES.md
@@ -291,3 +291,4 @@ Open **http://localhost:5191/game.html** (also linked as **遊戲模式** on the
 - **錄影時遊戲跑兩倍速（2026-10-21 修正）**：`__GAME__.step(dt)` 推進時鐘並更新遊戲後，`main.js` 的畫面迴圈用「水面時鐘－上次畫面時間」又更新一次，所以「step 後等畫面」的錄影腳本（外海、遊戲精華、遊戲潮池、走位）裡角色、小船、划槳都是兩倍速。現在 `step()` 記下已推進到的時間（`water.userData.simTime`），畫面迴圈只補算之後的部分。外海錄影模擬三組仍觀察到 7 種、`verify-game` 通過。
 - **小島外形與植被對照意象圖（2026-10-21）**：用 Codex 只看文字描述畫了三張意象圖（沙灘遠景、海上看遠島、俯瞰岬角，`~/explainer-videos/beach3d-eval/island-concept/`），跟現況對照，差最多的是外形與植被尺度：原本是平頂、四周一圈黑色岩壁、樹冠又大又少（像長滿花椰菜的平台）。修改：`hill()` 改成圓丘（水邊平緩、往偏離中心的山頂升高），岩石只留水邊一圈斷續的濕岩帶和最陡的坡面；樹冠改小、數量約 4 倍（每島約 3000 顆）並墊高成一層林冠，顏色提亮成向光的黃綠到橄欖綠，少數深色；坡上的椰子樹加高到冒出林冠，岸邊椰子樹往海傾；水邊散落岩塊；島的材質過了約 80 m 往霧色淡出（`haze()`），遠島看起來比較遠；天空多約 20 朵靠近地平線的小積雲。碎貝殼位置不變（校驗和相同）。植被三角形 64 萬 → 187 萬，wide 鏡頭 GPU 每幀約 1.09 → 1.20 ms。還沒做的：淺水珊瑚暗影、林緣灌木伸到沙上。三組共用，盲評分數與 REPORT 是之前的畫面。
 - **小島林緣植物與綠礁石（2026-10-22）**：島上原本只有椰子樹、球狀樹冠和灌木，沒有一般的植物；水邊岩塊是單純的灰石頭。加了大葉的地被植物（闊葉蓮座：拱起的葉柄、寬葉，類似海葡萄、姑婆芋；細長的帶狀葉扇形展開，類似林投幼株），沿林緣長成一圈、伸到沙上，林下空隙與岩石間也有一些（近島 1300、遠島 900 株）。岩塊底部加一圈深綠色海藻（水打濕的位置），頂上有苔斑，約四分之一整顆偏綠。三組共用。
+- **走到岬角近看、推船可以往回拉（2026-10-22）**：走路範圍原本到 x 35 為止，右側岬角（近島）走不到。現在沙灘一路走到 x 100，可以走到岬角的林緣，站在岩塊、大葉植物和椰子樹旁邊；島坡從沙裡升起超過 15 cm 的地方、椰子樹幹與岩塊會擋人，所以進不了林子。鏡頭碰撞也把島坡算進去。順帶修正：水邊岩塊原本在島外框外面也會取樣（那裡高度固定 −0.5），有的埋在海灘沙底下還會擋人，有的散在外海浮在水上；現在只放在島的範圍內、且不放在被沙蓋住的地方（地被植物、椰子樹同）。推船時原本只能按 W 往前推，船撞到躺椅或洋傘就卡住；現在按住 S 會倒退著把船往回拉（約 0.9 m/s，腳步動畫倒著播），拉的同時按 A/D 可轉向，提示改成「按住 W 把船推進水深處 · S 往回拉」。`verify-game` 加了往回拉與走到岬角兩項檢查。
